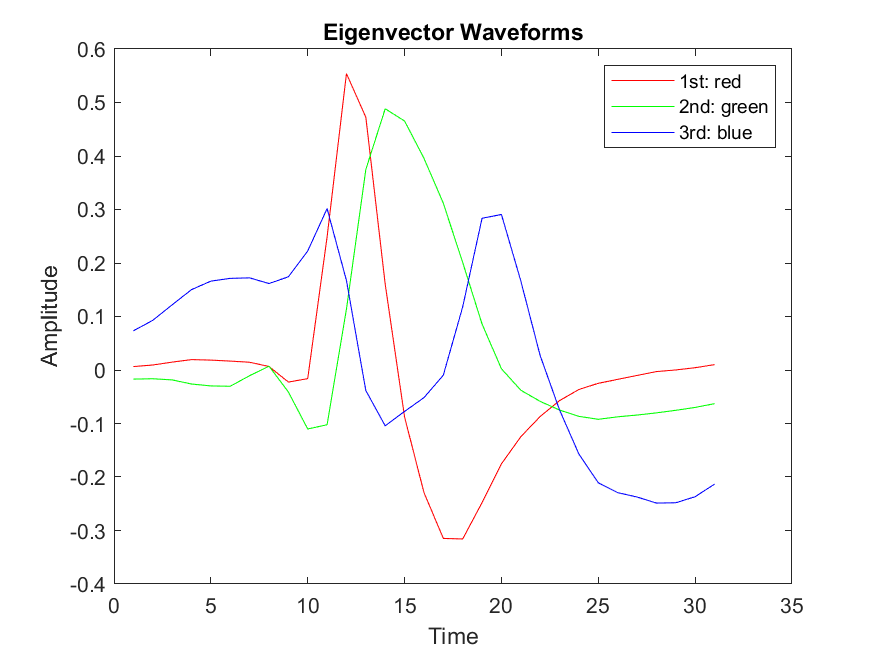
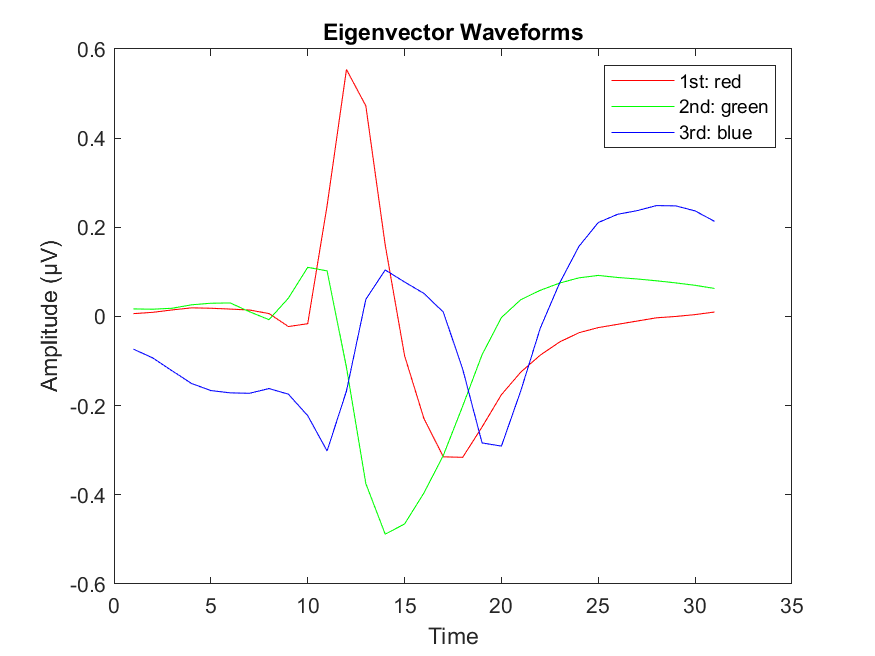
PS7 end

diff --git a/PS7/hw.m b/PS7/hw.m
@@ -1,19 +1,22 @@
 close all; clear all;
-%% Load your data
-% Assuming Spikes is a 31x552 matrix
-% Replace 'your_spikes_data.mat' with your actual data file name
 load('ps7_data.mat');
 
-%% (a) Plot the N raw spike snippets in a "voltage vs. time" plot
 figure;
-plot(Spikes);
+plot(Spikes, 'k');
 xlabel('Time');
 ylabel('Voltage (µV)');
 title('Voltage vs. Time for Raw Spike Snippets');
 saveas(gcf, 'ps7_1a.png'); close all;
 
 %% (b) Apply PCA to all N spike snippets and plot the eigenvector waveforms
-[coeff, score, latent] = pca(Spikes.');
+% [coeff, score, latent] = pca(Spikes.');
+centered_data = Spikes - mean(Spikes, 2);
+covariance_matrix = (centered_data * centered_data') / (size(centered_data, 2) - 1);
+[coeff, eigenvalues_matrix] = eig(covariance_matrix);
+[latent, sort_index] = sort(diag(eigenvalues_matrix), 'descend');
+coeff = coeff(:, sort_index);
+score = coeff' * centered_data;
+score = score';
 
 figure;
 plot(coeff(:, 1), 'r');
@@ -21,7 +24,7 @@ hold on;
 plot(coeff(:, 2), 'g');
 plot(coeff(:, 3), 'b');
 xlabel('Time');
-ylabel('Amplitude');
+ylabel('Amplitude (µV)');
 title('Eigenvector Waveforms');
 legend('1st: red', '2nd: green', '3rd: blue');
 saveas(gcf, 'ps7_1b.png'); close all;
@@ -29,9 +32,9 @@ saveas(gcf, 'ps7_1b.png'); close all;
 %% (c) Plot the square-rooted eigenvalue spectrum
 sqrt_eigenvalues = sqrt(latent);
 figure;
-plot(sqrt_eigenvalues, 'o-');
-xlabel('Principal Component');
-ylabel('Square-rooted Eigenvalue');
+plot(sqrt_eigenvalues, 'o', "MarkerSize", 5, 'MarkerEdgeColor', 'k');
+xlabel('Component Number');
+ylabel('Square-rooted Eigenvalue (µV)');
 title('Square-rooted Eigenvalue Spectrum');
 saveas(gcf, 'ps7_1c.png'); close all;
 
@@ -39,9 +42,9 @@ saveas(gcf, 'ps7_1c.png'); close all;
 % (You will need to visually inspect the plot to determine the number of dominant eigenvalues)
 
 %% (d) Create a scatter plot of the PC1 score versus the PC2 score
-score = -1 * score;
+score(:, 1) = -1 * score(:, 1);
 figure;
-scatter(score(:, 1), score(:, 2));
+scatter(score(:, 1), score(:, 2), 5, 'k', 'filled');
 xlabel('PC1 Score');
 ylabel('PC2 Score');
 title('Scatter Plot of PC1 Score vs PC2 Score');
@@ -73,9 +76,6 @@ for K = K_values
         InitParams_new.Sigma = repmat(InitParams.Sigma, 1, 1, K);
         InitParams_new.pi = ones(1, K) / K; 
 
-        % Train GMM using EM
-        % function [mu, Sigma, pi] = GMM(Spikes, InitParams1)
-        % [mu_est, Sigma_est, pi_est, gamma] = GMM(score(train_indices, 1:2)', InitParams_new);
         [mu_est, Sigma_est, pi_est] = func_GMM(InitParams_new, score(train_indices, 1:2)');
         
         % Compute likelihood for the test set
@@ -95,7 +95,7 @@ end
 
 % Plot cross-validated likelihoods versus K
 figure;
-plot(K_values, likelihoods, 'o-');
+plot(K_values, likelihoods, 'o-', "MarkerSize", 5, 'MarkerEdgeColor', 'k');
 xlabel('K');
 ylabel('Cross-validated Likelihood');
 title('Cross-validated Likelihoods vs K');
@@ -108,14 +108,14 @@ saveas(gcf, 'ps7_2a.png'); close all;
 for K = 1:8
     % Train GMM using EM with the first cross-validation fold
     InitParams_new.mu = InitParams.mu(:, 1:K);
-    InitParams_new.sigma = InitParams.Sigma;
+    InitParams_new.sigma = repmat(InitParams.Sigma, 1, 1, K);
     InitParams_new.pi = ones(1, K) / K;
     train_indices = samples_per_fold + 1 : n_samples;
-    [mu_est, Sigma_est, pi_est, gamma] = GMM(score(train_indices, 1:2)', InitParams_new);
+    [mu_est, Sigma_est, pi_est] = func_GMM(InitParams_new, score(train_indices, 1:2)');
     
     % Create plot
     figure;
-    scatter(score(:, 1), score(:, 2));
+    scatter(score(:, 1), score(:, 2), 5, 'k', 'filled');
     xlabel('PC1 Score');
     ylabel('PC2 Score');
     title(sprintf('Scatter Plot and Ellipses for K = %d', K));
@@ -136,17 +136,28 @@ end
 % cross-validation fold.
 
 InitParams_new.mu = InitParams.mu(:, 1:3);
-InitParams_new.sigma = InitParams.Sigma;
+InitParams_new.sigma = repmat(InitParams.Sigma, 1, 1, K);
 InitParams_new.pi = ones(1, 3) / 3;
 train_indices = samples_per_fold + 1 : n_samples;
-[mu_est, Sigma_est, pi_est, gamma] = GMM(score(train_indices, 1:2)', InitParams_new);
+[mu_est, Sigma_est, pi_est] = func_GMM(InitParams_new, score(train_indices, 1:2)');
 
 for k = 1:3
     mu_est_31d = coeff(:, 1:2) * mu_est(:, k);
     figure;
-    plot(mu_est_31d);
+    plot(mu_est_31d, "LineWidth", 2.5);
     xlabel('Time');
     ylabel('Voltage (µV)');
     title(sprintf('Canonical Spike Waveform for Cluster %d', k));
-    saveas(gcf, sprintf('ps7_2b_%d.png', k)); close all;
+    saveas(gcf, sprintf('ps7_2c_%d.png', k)); close all;
 end
+
+figure;
+hold on;
+plot(coeff(:, 1:2) * mu_est(:, 1), 'r');
+plot(coeff(:, 1:2) * mu_est(:, 2), 'g');
+plot(coeff(:, 1:2) * mu_est(:, 3), 'b');
+xlabel('Time');
+ylabel('Amplitude (µV)');
+title('Eigenvector Waveforms');
+legend('1st: red', '2nd: green', '3rd: blue');
+saveas(gcf, 'ps7_2c_other.png'); close all;

diff --git a/PS7/func_plotEllipse.m b/PS7/func_plotEllipse.m
@@ -44,6 +44,6 @@ for x = -Plen:step:Plen,
 end
 Contour1 = Contour1(1:count-1,:);
 Contour2 = [Contour1(1,:);Contour2(1:count-1,:);Contour1(count-1,:)];
-plot(M(1),M(2),'k+');
-plot(Contour1(:,1),Contour1(:,2),'k-','LineWidth',2);
-plot(Contour2(:,1),Contour2(:,2),'k-','LineWidth',2);
+plot(M(1),M(2),'r+');
+plot(Contour1(:,1),Contour1(:,2),'r-','LineWidth',2);
+plot(Contour2(:,1),Contour2(:,2),'r-','LineWidth',2);

diff --git a/PS7/func_GMM.m b/PS7/func_GMM.m
@@ -26,8 +26,7 @@ ppi   = InitParams.pi;
 K = size(mu, 2);
 [D, N] = size(Spikes);
 
-Sigma = repmat(InitParams.Sigma, 1, 1, K);
-% Sigma = InitParams.Sigma;
+Sigma = InitParams.Sigma;
 
 const = -0.5 * D * log(2*pi);
 
